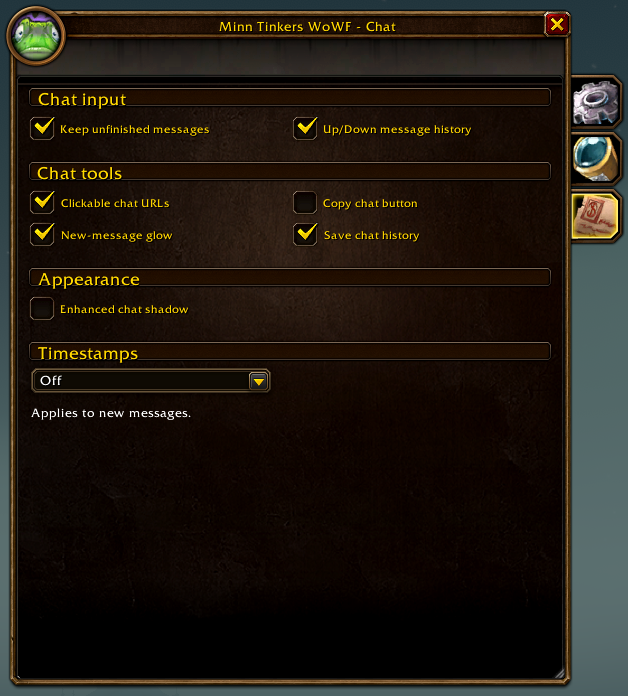
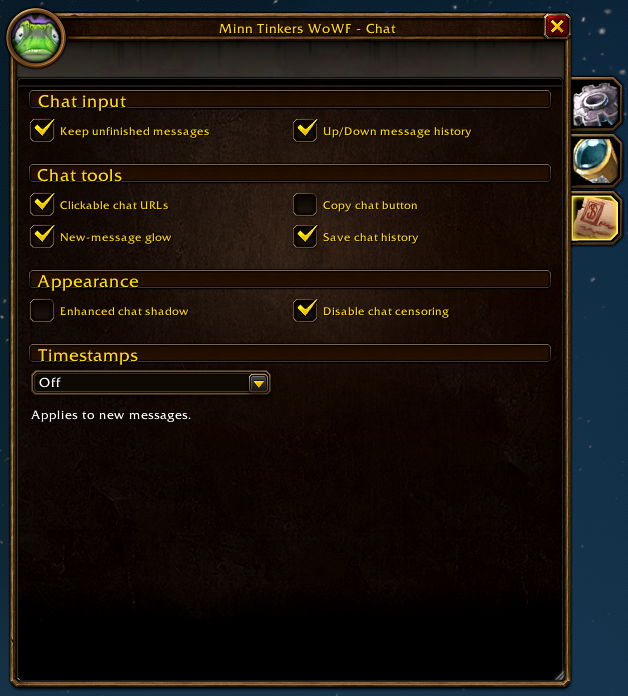
Refresh README screenshots for Universal, UI, and Chat

diff --git a/README.md b/README.md
@@ -19,7 +19,7 @@ Extract the ZIP into `Interface/AddOns/`, keeping the folder named `Minn Tinkers
 - **Junk selling** sells grey items when you open a vendor. Hold **Shift** to skip it.
 - **Group** can handle invites, invite suggestions, summons, and regular dungeon rezzes. Battle rezzes stay manual.
 
-<img src=".github/screenshots/universal.png" alt="Universal tab: looting, camera, questing and NPC interaction settings" width="560">
+<img src=".github/screenshots/universal.png" alt="Universal tab with camera, questing, and group settings" width="560">
 
 ## UI
 
@@ -28,7 +28,7 @@ Extract the ZIP into `Interface/AddOns/`, keeping the folder named `Minn Tinkers
 - **Bags and bars** lets you hide the bag bar, microbar, or locked 2FA backpack slots.
 - **Range indicator** shows a movable dot that turns red when your target is out of range of your chosen spell. In range, it uses white or your class color.
 
-<img src=".github/screenshots/ui.png" alt="UI tab showing action-bar text, combat glow, range indicator, and bar visibility" width="560">
+<img src=".github/screenshots/ui.png" alt="UI tab with action-bar text, range indicator, and bag visibility settings" width="560">
 
 Range indicator examples using the hunter class color:
 
@@ -47,7 +47,7 @@ Range indicator examples using the hunter class color:
 - **Save chat history** keeps recent chat after a reload or logout.
 - Use **Timestamps** to choose how the time appears on new messages.
 
-<img src=".github/screenshots/chat.png" alt="Chat tab: draft preservation, message history, URLs, copying, unread messages and timestamps" width="560">
+<img src=".github/screenshots/chat.png" alt="Chat tab with chat input, chat tools, and appearance settings" width="560">
 
 ## Hunter
 
